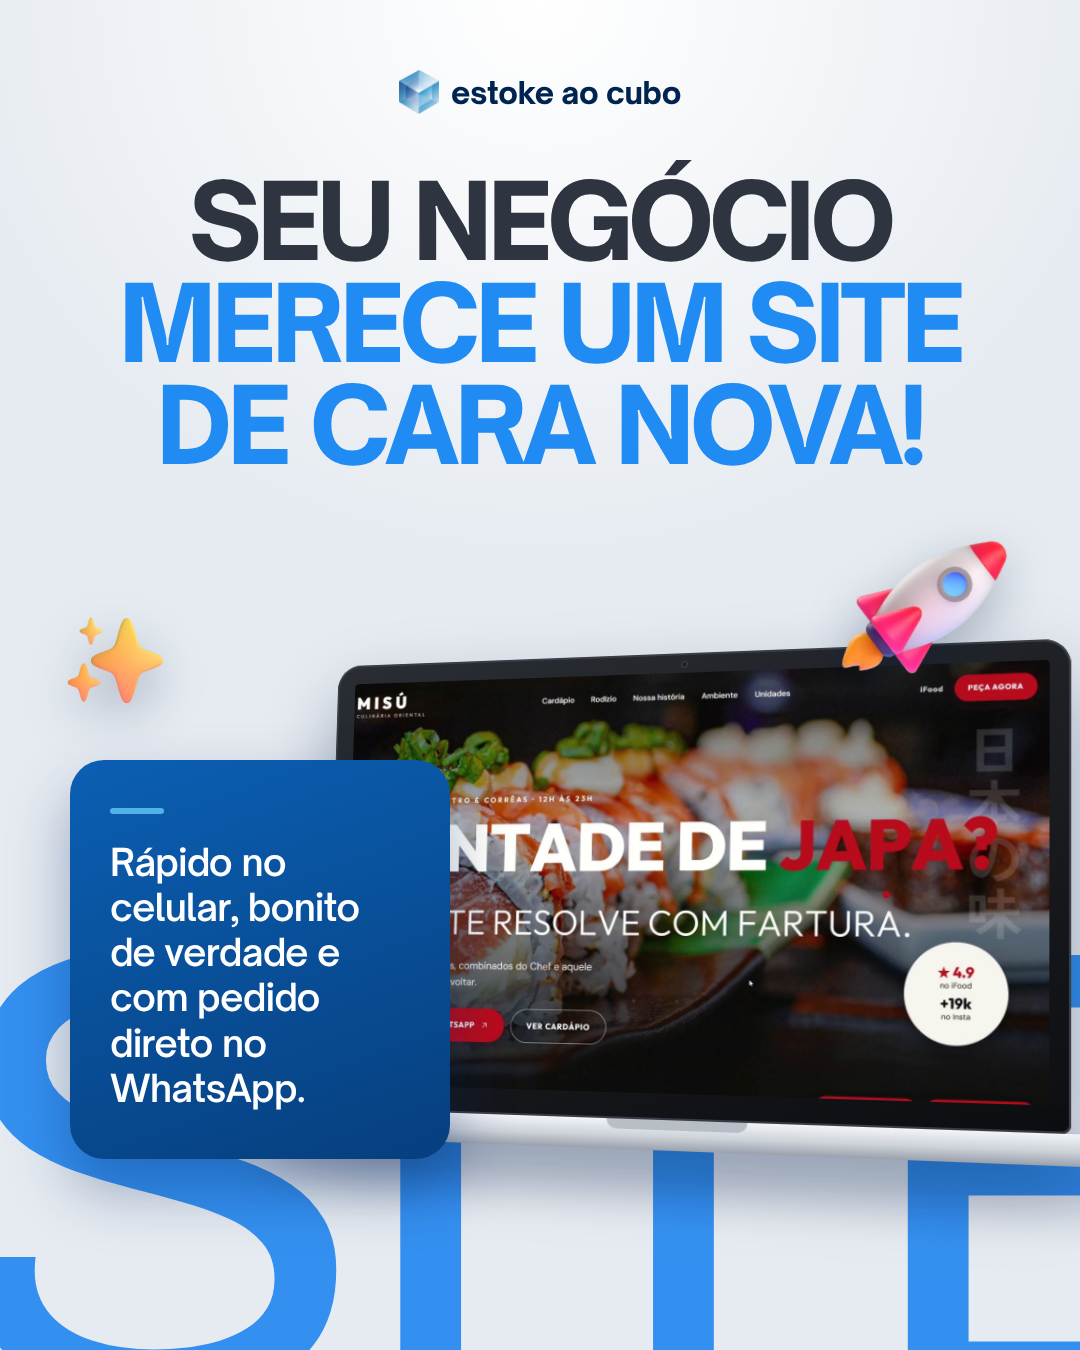
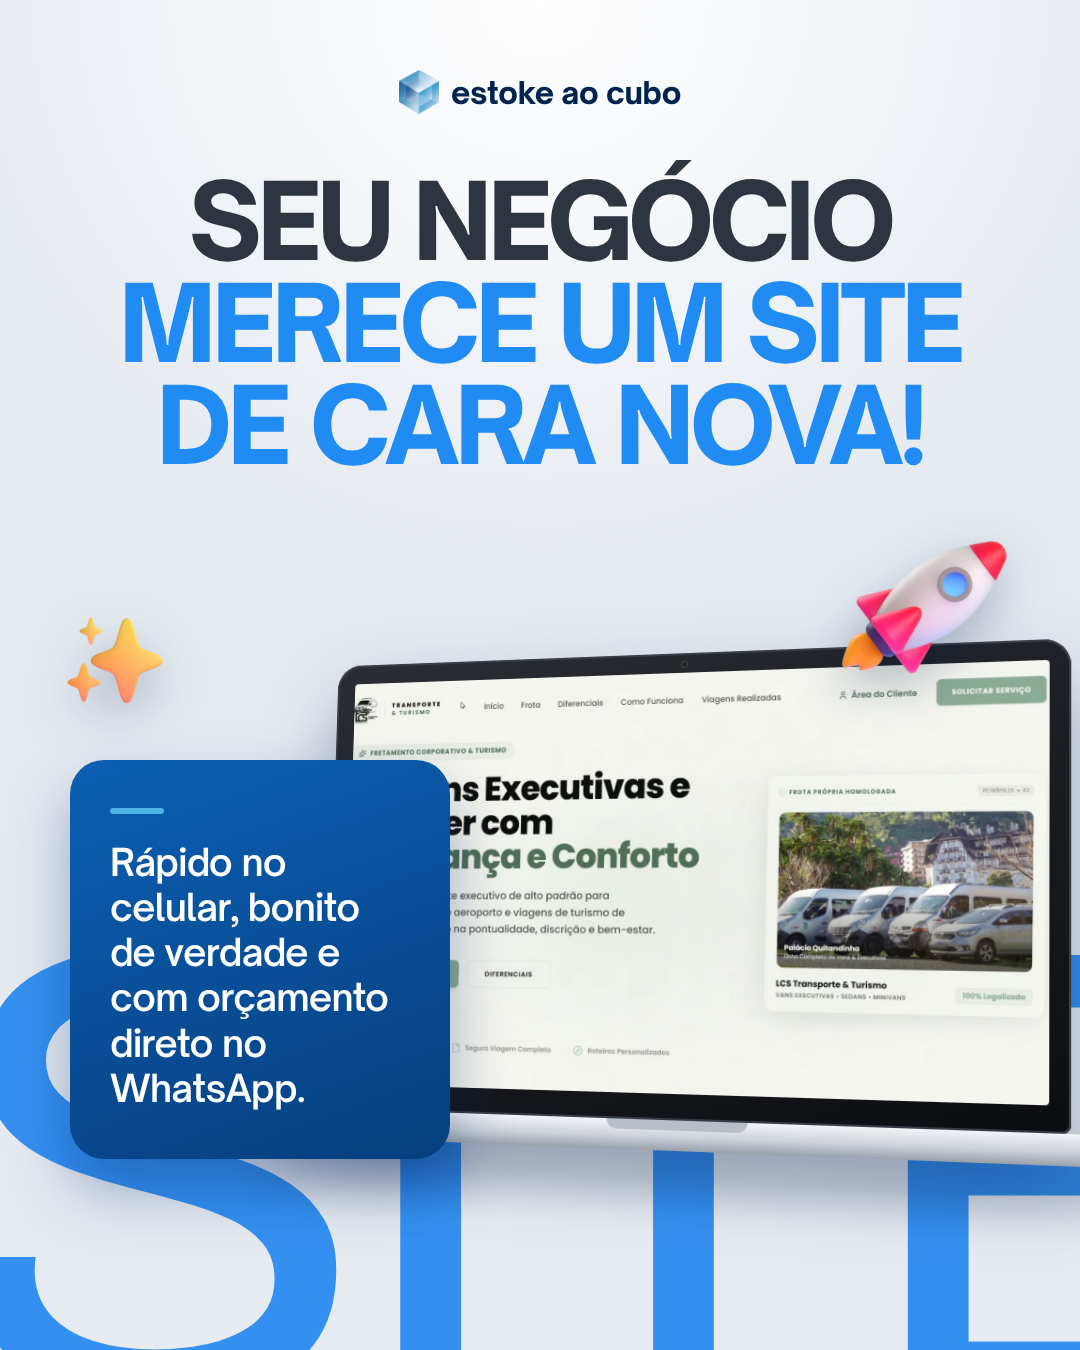
Rebuild Instagram posts with only Dizzy, LCS, Arteiro, K-Dust, Ruppel and Kairós
Drop the other clients' prints; add live captures of the Ruppel and
Arteiro launch pages, and launch posts for both (now eight posts).

Claude-Session: https://claude.ai/code/session_01HSoz4raEAsVYZ6N1uJ5Mp7

Changed region(s): [[0.3056, 0.4667, 0.9778, 0.84], [0.1833, 0.7156, 0.3667, 0.7467]]

diff --git a/posts-insta/posts.html b/posts-insta/posts.html
@@ -63,11 +63,11 @@
     <div style="color: #1F8BF3;">de cara nova!</div>
   </div>
   <div class="laptop" style="left: 300px; top: 650px; width: 760px; transform: perspective(1600px) rotateY(-14deg) rotateX(4deg);">
-    <div class="lid"><img src="img/sites/misu-hero.jpg"></div><div class="base"></div>
+    <div class="lid"><img src="img/sites/lcs-hero.jpg"></div><div class="base"></div>
   </div>
   <div class="abs" style="left: 70px; top: 760px; width: 380px; padding: 48px 40px; border-radius: 34px; background: linear-gradient(160deg, #0B5FB3, #063F7E); color: #fff; font-size: 37px; line-height: 1.22; font-weight: 600; letter-spacing: -0.02em; box-shadow: 0 30px 60px rgba(0, 40, 100, .35);">
     <div style="width: 54px; height: 6px; border-radius: 3px; background: #4FB3E8; margin-bottom: 26px;"></div>
-    Rápido no celular, bonito de verdade e com pedido direto no WhatsApp.
+    Rápido no celular, bonito de verdade e com orçamento direto no WhatsApp.
   </div>
   <img class="emo" src="img/emoji/rocket.webp" style="width: 170px; right: 70px; top: 520px; transform: rotate(8deg);">
   <img class="emo" src="img/emoji/sparkles.webp" style="width: 110px; left: 60px; top: 600px;">
@@ -159,9 +159,9 @@
   <div class="abs disp" style="right: 120px; top: 418px; font-size: 54px; color: #2F8CFF; transform: rotate(-6deg); letter-spacing: .02em;">de verdade</div>
   <div class="abs" style="left: 90px; top: 600px; width: 900px; height: 500px; border-radius: 30px; background: rgba(255,255,255,.08); border: 1px solid rgba(255,255,255,.18); backdrop-filter: blur(6px);"></div>
   <div class="abs" style="left: 130px; top: 560px; width: 820px; height: 500px; border-radius: 30px; background: rgba(255,255,255,.12); border: 1px solid rgba(255,255,255,.22);"></div>
-  <div class="browser" style="left: 170px; top: 510px; width: 740px;"><div class="bar"><i></i><i></i><i></i><span>Noka Arquitetura e Engenharia</span></div><img class="shot" src="img/sites/noka-hero.jpg"></div>
-  <div class="browser" style="left: 60px; top: 800px; width: 420px; transform: rotate(-5deg);"><div class="bar"><i></i><i></i><i></i><span>Misú</span></div><img class="shot" src="img/sites/misu-prato.jpg"></div>
-  <div class="browser" style="right: 50px; top: 840px; width: 420px; transform: rotate(5deg);"><div class="bar"><i></i><i></i><i></i><span>LCS Turismo</span></div><img class="shot" src="img/sites/lcs-hero.jpg"></div>
+  <div class="browser" style="left: 170px; top: 510px; width: 740px;"><div class="bar"><i></i><i></i><i></i><span>Kairós Streetwear</span></div><img class="shot" src="img/sites/kairos.jpg"></div>
+  <div class="browser" style="left: 60px; top: 800px; width: 420px; transform: rotate(-5deg);"><div class="bar"><i></i><i></i><i></i><span>Dizzy House Studio</span></div><img class="shot" src="img/sites/dizzy-enter.jpg"></div>
+  <div class="browser" style="right: 50px; top: 840px; width: 420px; transform: rotate(5deg);"><div class="bar"><i></i><i></i><i></i><span>K-Dust</span></div><img class="shot" src="img/sites/kdust.jpg"></div>
   <img class="emo" src="img/emoji/fire.webp" style="width: 150px; left: 70px; top: 330px; transform: rotate(-10deg);">
   <div class="abs" style="left: 70px; bottom: 90px; color: #fff; font-size: 32px; font-weight: 600;">Petrópolis · RJ 📍</div>
   <div class="abs" style="right: 70px; bottom: 80px; color: #fff; font-size: 34px; font-weight: 800; display: flex; align-items: center; gap: 10px;">orçamento no direct <img src="img/emoji/pointing.webp" style="width: 52px;"></div>
@@ -175,11 +175,11 @@
   </div>
   <div class="abs portfolio" style="left: 110px; top: 330px; width: 860px; display: grid; grid-template-columns: 1fr 1fr; gap: 30px 30px;">
     <!-- cada card: print + nome + emoji -->
-    <div style="position: relative;"><div class="browser" style="position: relative; width: 100%;"><div class="bar"><i></i><i></i><i></i><span>Misú Culinária Oriental</span></div><img class="shot" src="img/sites/misu-hero.jpg"></div><img class="emo" src="img/emoji/sushi.webp" style="width: 90px; right: -16px; top: -26px; transform: rotate(12deg);"></div>
-    <div style="position: relative;"><div class="browser" style="position: relative; width: 100%;"><div class="bar"><i></i><i></i><i></i><span>Noka Arquitetura</span></div><img class="shot" src="img/sites/noka-hero.jpg"></div><img class="emo" src="img/emoji/house.webp" style="width: 90px; right: -16px; top: -26px; transform: rotate(10deg);"></div>
-    <div style="position: relative;"><div class="browser" style="position: relative; width: 100%;"><div class="bar"><i></i><i></i><i></i><span>LCS Transporte e Turismo</span></div><img class="shot" src="img/sites/lcs-hero.jpg"></div><img class="emo" src="img/emoji/bus.webp" style="width: 90px; right: -16px; top: -26px; transform: rotate(8deg);"></div>
     <div style="position: relative;"><div class="browser" style="position: relative; width: 100%;"><div class="bar"><i></i><i></i><i></i><span>Dizzy House Shop</span></div><img class="shot" src="img/sites/dizzy-shop.jpg"></div><img class="emo" src="img/emoji/crown.webp" style="width: 90px; right: -16px; top: -26px; transform: rotate(10deg);"></div>
-    <div style="position: relative;"><div class="browser" style="position: relative; width: 100%;"><div class="bar"><i></i><i></i><i></i><span>Roda Cultural do CDC</span></div><img class="shot" src="img/sites/roda-hero.jpg"></div><img class="emo" src="img/emoji/mic.webp" style="width: 90px; right: -16px; top: -26px; transform: rotate(10deg);"></div>
+    <div style="position: relative;"><div class="browser" style="position: relative; width: 100%;"><div class="bar"><i></i><i></i><i></i><span>LCS Transporte e Turismo</span></div><img class="shot" src="img/sites/lcs-hero.jpg"></div><img class="emo" src="img/emoji/bus.webp" style="width: 90px; right: -16px; top: -26px; transform: rotate(10deg);"></div>
+    <div style="position: relative;"><div class="browser" style="position: relative; width: 100%;"><div class="bar"><i></i><i></i><i></i><span>Loja Arteiro</span></div><img class="shot" src="img/sites/arteiro.jpg"></div><img class="emo" src="img/emoji/palette.webp" style="width: 90px; right: -16px; top: -26px; transform: rotate(10deg);"></div>
+    <div style="position: relative;"><div class="browser" style="position: relative; width: 100%;"><div class="bar"><i></i><i></i><i></i><span>K-Dust</span></div><img class="shot" src="img/sites/kdust.jpg"></div><img class="emo" src="img/emoji/fire.webp" style="width: 90px; right: -16px; top: -26px; transform: rotate(10deg);"></div>
+    <div style="position: relative;"><div class="browser" style="position: relative; width: 100%;"><div class="bar"><i></i><i></i><i></i><span>Ruppel Streetwear</span></div><img class="shot" src="img/sites/ruppel.jpg"></div><img class="emo" src="img/emoji/bolt.webp" style="width: 90px; right: -16px; top: -26px; transform: rotate(10deg);"></div>
     <div style="position: relative;"><div class="browser" style="position: relative; width: 100%;"><div class="bar"><i></i><i></i><i></i><span>Kairós Streetwear</span></div><img class="shot" src="img/sites/kairos.jpg"></div><img class="emo" src="img/emoji/gem.webp" style="width: 90px; right: -16px; top: -26px; transform: rotate(10deg);"></div>
   </div>
   <div class="abs" style="bottom: 70px; left: 60px; right: 60px; display: flex; align-items: center; justify-content: space-between; color: var(--ink);">
@@ -188,24 +188,42 @@
   </div>
 </section>
 
-<!-- 07 · Lançamento: site da Roda Cultural no ar (ref. Pneustok) -->
-<section class="post dark" id="07-roda-cultural-no-ar" style="background: radial-gradient(ellipse 80% 55% at 50% 10%, #2A0F1A, #0B0B0D 70%);">
-  <div class="abs disp" style="right: -120px; bottom: -120px; font-size: 560px; line-height: 1; color: #E6195A; opacity: .9; letter-spacing: -0.04em;">CDC</div>
+<!-- 07 · Lançamento: Ruppel (ref. Pneustok) -->
+<section class="post dark" id="07-ruppel-rompa-o-padrao" style="background: radial-gradient(ellipse 80% 55% at 50% 10%, #0E2A22, #070908 70%);">
+  <div class="abs disp" style="left: -40px; bottom: -130px; font-size: 470px; line-height: 1; color: #1FCB8A; opacity: .9; letter-spacing: -0.04em;">DROP</div>
   <div class="abs brand" style="top: 70px; width: 100%; justify-content: center; color: #fff;"><img src="img/cube-logo.webp">estoke ao cubo</div>
   <div class="abs" style="top: 160px; width: 100%; text-align: center; font-weight: 800; font-size: 92px; line-height: 1; letter-spacing: -0.045em; text-transform: uppercase;">
-    <div style="color: #fff;">O site da</div>
-    <div style="color: #D4FF3A;">Roda Cultural</div>
-    <div style="color: #D4FF3A;">do CDC tá no ar!</div>
+    <div style="color: #fff;">O site da Ruppel</div>
+    <div style="color: #2EE6A0;">tá na contagem</div>
+    <div style="color: #2EE6A0;">regressiva!</div>
   </div>
   <div class="laptop" style="left: 290px; top: 600px; width: 760px; transform: perspective(1600px) rotateY(-14deg) rotateX(4deg);">
-    <div class="lid"><img src="img/sites/roda-hero.jpg"></div><div class="base"></div>
+    <div class="lid"><img src="img/sites/ruppel.jpg"></div><div class="base"></div>
   </div>
-  <div class="abs" style="left: 60px; top: 720px; width: 380px; padding: 44px 38px; border-radius: 34px; background: linear-gradient(160deg, #E6195A, #A20E3C); color: #fff; font-size: 35px; line-height: 1.22; font-weight: 600; letter-spacing: -0.02em; box-shadow: 0 30px 60px rgba(230, 25, 90, .3);">
-    <div style="width: 54px; height: 6px; border-radius: 3px; background: #D4FF3A; margin-bottom: 24px;"></div>
-    Batalha de rima toda quinta. Agenda, campeões e galeria num só lugar.
+  <div class="abs" style="left: 60px; top: 720px; width: 380px; padding: 44px 38px; border-radius: 34px; background: linear-gradient(160deg, #13A872, #0B6B49); color: #fff; font-size: 35px; line-height: 1.22; font-weight: 600; letter-spacing: -0.02em; box-shadow: 0 30px 60px rgba(20, 170, 110, .3);">
+    <div style="width: 54px; height: 6px; border-radius: 3px; background: #fff; margin-bottom: 24px;"></div>
+    Streetwear original. Drop 01 com lista VIP e cupom pra quem chegar primeiro.
   </div>
-  <img class="emo" src="img/emoji/mic.webp" style="width: 170px; right: 60px; top: 470px; transform: rotate(14deg);">
-  <img class="emo" src="img/emoji/fire.webp" style="width: 120px; left: 70px; top: 590px; transform: rotate(-8deg);">
+  <img class="emo" src="img/emoji/tshirt.webp" style="width: 170px; right: 60px; top: 460px; transform: rotate(14deg);">
+  <img class="emo" src="img/emoji/bolt.webp" style="width: 120px; left: 70px; top: 590px; transform: rotate(-8deg);">
+</section>
+
+<!-- 08 · Lançamento: Arteiro (ref. Volutech, com o print no centro) -->
+<section class="post dark" id="08-arteiro-em-breve" style="background: radial-gradient(ellipse 75% 55% at 50% 45%, #2B1D10, #0A0806 75%);">
+  <div class="abs" style="left: 140px; top: 470px; width: 800px; height: 520px; border-radius: 80px; background: conic-gradient(from 0deg, #E53935, #FB8C00, #FDD835, #43A047, #1E88E5, #8E24AA, #E53935); filter: blur(60px); opacity: .45;"></div>
+  <div class="abs brand" style="top: 70px; width: 100%; justify-content: center; color: #fff;"><img src="img/cube-logo.webp">estoke ao cubo</div>
+  <div class="abs" style="top: 150px; width: 100%; text-align: center; letter-spacing: -0.035em;">
+    <div style="font-weight: 600; font-size: 84px; color: #F1D9A8; line-height: 1;">Algo especial</div>
+    <div style="font-weight: 800; font-size: 150px; line-height: 1; background: linear-gradient(90deg, #F6C66B, #FFE9B8, #E7A93F); -webkit-background-clip: text; background-clip: text; color: transparent;">vem aí</div>
+  </div>
+  <div class="browser" style="left: 140px; top: 470px; width: 800px;"><div class="bar"><i></i><i></i><i></i><span>Loja Arteiro · arte popular brasileira</span></div><img class="shot" src="img/sites/arteiro.jpg"></div>
+  <img class="emo" src="img/emoji/palette.webp" style="width: 200px; left: 50px; top: 360px; transform: rotate(-12deg);">
+  <img class="emo" src="img/emoji/hourglass.webp" style="width: 150px; right: 70px; top: 880px; transform: rotate(10deg);">
+  <img class="emo" src="img/emoji/sparkles.webp" style="width: 110px; right: 110px; top: 380px;">
+  <div class="abs" style="top: 1060px; width: 100%; text-align: center; font-size: 36px; line-height: 1.35; color: #E9DCC6; letter-spacing: -0.015em;">
+    Arte popular brasileira e marcenaria nobre.<br><b style="color: #F6C66B;">A loja online da Arteiro está chegando.</b> ✨
+  </div>
+  <div class="abs" style="bottom: 70px; width: 100%; text-align: center; font-size: 28px; font-weight: 700; color: #B8A88C;">desde 1978 · Itaipava / RJ</div>
 </section>
 
 </body>

diff --git a/README.md b/README.md
@@ -30,15 +30,16 @@ Trailer da Temporada 1 em HyperFrames ("Perder um cliente e nem perceber"): ver 
 
 ## Posts do Instagram (`posts-insta/`)
 
-São 7 posts estáticos em 4:5 (1080×1350), seguindo as referências: produto em fundo claro, ciclo em azul escuro, card de dados em vidro, camadas de vidro e lançamento de site num notebook. Os prints vêm dos sites já feitos pela Estoke ao Cubo, e os emojis são 3D (Fluent Emoji da Microsoft, licença MIT).
+São 8 posts estáticos em 4:5 (1080×1350), seguindo as referências: produto em fundo claro, ciclo em azul escuro, card de dados em vidro, camadas de vidro e lançamento de site num notebook. Só aparecem os sites da Dizzy, LCS, Arteiro, K-Dust, Ruppel e Kairós. Os prints da Ruppel e da Arteiro foram tirados dos sites no ar (páginas de lançamento). Os emojis são 3D (Fluent Emoji da Microsoft, licença MIT).
 
-1. `01-site-de-cara-nova`: "Seu negócio merece um site de cara nova!", com o Misú no notebook.
+1. `01-site-de-cara-nova`: "Seu negócio merece um site de cara nova!", com a LCS no notebook.
 2. `02-combo-que-vende`: "O combo que vende!", com a loja da Dizzy, o selo de vidro "24h", carrinho e saco de dinheiro.
 3. `03-acontece-com-todo-mundo`: o ciclo "Sem site → Cliente não te acha → Venda perdida", e a Estoke ao Cubo resolve.
 4. `04-vendendo-24-7`: o card "Seu site vendendo 24/7", com o pedido às 03:15, a lua e a carinha dormindo.
-5. `05-sites-que-vendem`: "Sites que vendem de verdade", com Noka, Misú e LCS em camadas de vidro.
-6. `06-feitos-pela-estoke`: o portfólio com Misú, Noka, LCS, Dizzy, Roda Cultural e Kairós.
-7. `07-roda-cultural-no-ar`: o lançamento "O site da Roda Cultural do CDC tá no ar!".
+5. `05-sites-que-vendem`: "Sites que vendem de verdade", com Kairós, Dizzy e K-Dust em camadas de vidro.
+6. `06-feitos-pela-estoke`: o portfólio com Dizzy, LCS, Arteiro, K-Dust, Ruppel e Kairós.
+7. `07-ruppel-rompa-o-padrao`: "O site da Ruppel tá na contagem regressiva!".
+8. `08-arteiro-em-breve`: "Algo especial vem aí", a loja online da Arteiro.
 
 Os posts ficam em `posts-insta/posts.html` e são gerados com `NODE_PATH=/opt/node22/lib/node_modules node posts-insta/render.cjs`, que grava os PNGs em `posts-insta/out/`.
 
